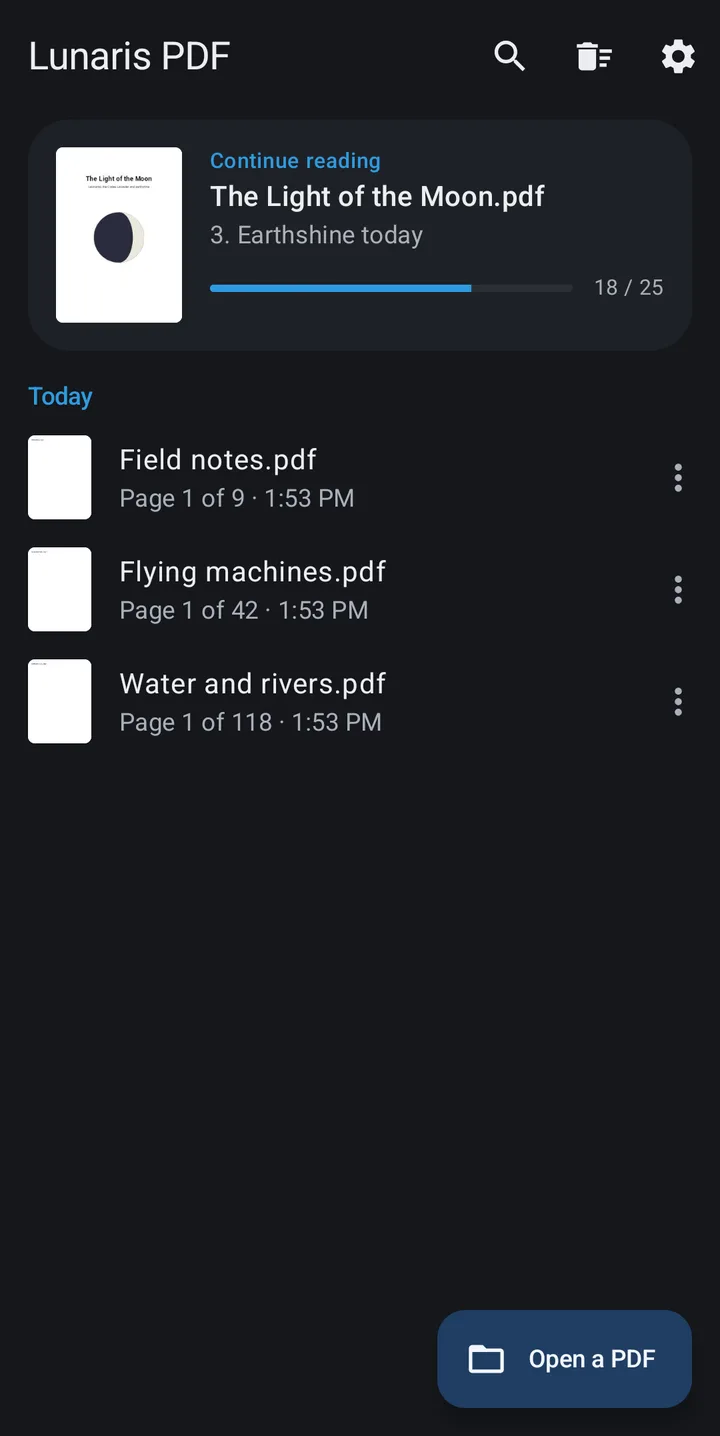
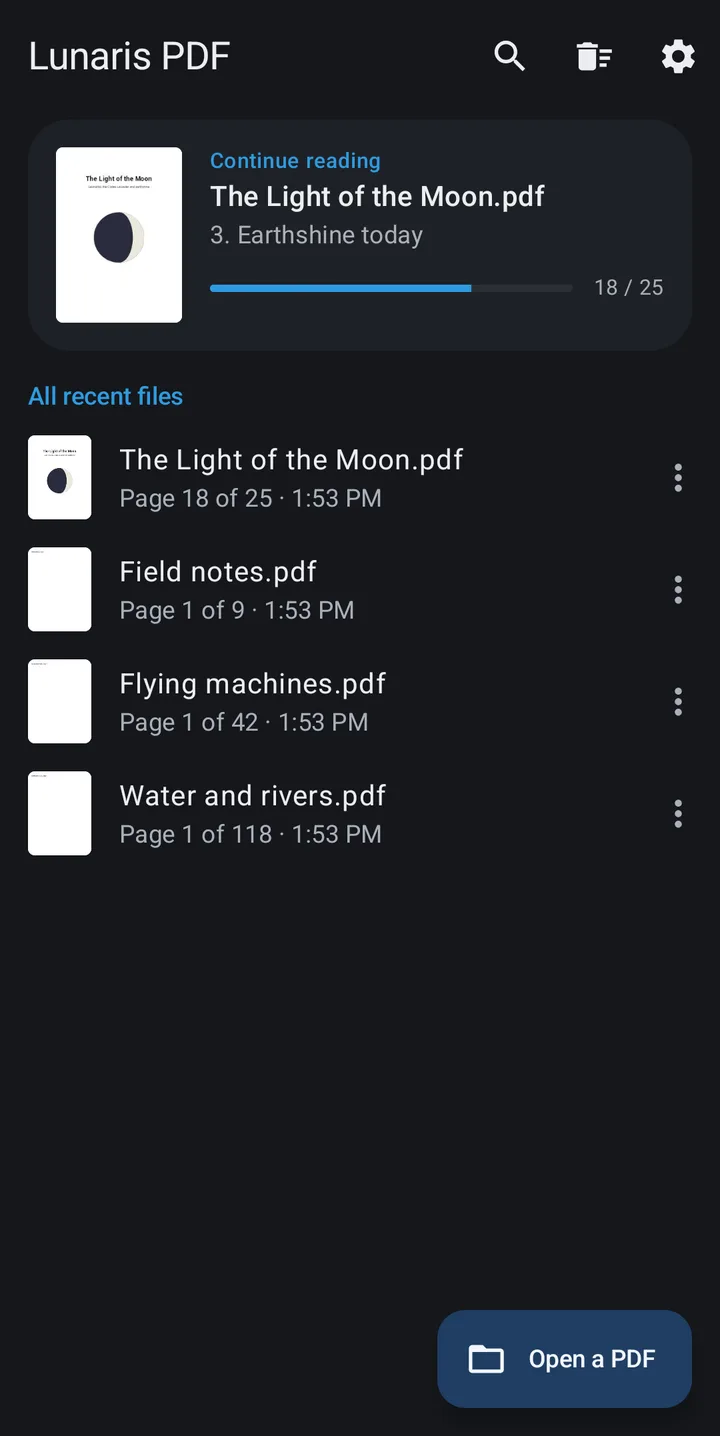
list all the recent files under the card in Lunaris PDF
The document in the card stays in the list too, where it has its menu. This
replaces the groups by date: each row still says when it was opened.

diff --git a/lunaris-pdf/app/src/test/kotlin/io/github/martindavinci/lunaris/pdf/recents/RecentsHomeTest.kt b/lunaris-pdf/app/src/test/kotlin/io/github/martindavinci/lunaris/pdf/recents/RecentsHomeTest.kt
@@ -18,45 +18,45 @@ class RecentsHomeTest {
     private fun entry(name: String, opened: Long, pinned: Boolean = false) =
         RecentEntry("content://a/$name", "$name.pdf", lastOpenedMillis = opened, pinned = pinned)
 
-    private fun home(entries: List<RecentEntry>, query: String? = null) = RecentsHome.of(entries, query, now, zone)
+    private fun home(entries: List<RecentEntry>, query: String? = null) = RecentsHome.of(entries, query)
 
     @Test fun nothing_givesAnEmptyHome() {
         val home = home(emptyList())
         assertThat(home.resume).isNull()
         assertThat(home.pinned).isEmpty()
-        assertThat(home.sections).isEmpty()
+        assertThat(home.all).isEmpty()
     }
 
-    @Test fun theNewest_isTheOneToResume_andNotInTheList() {
+    @Test fun theNewest_isTheOneToResume_andStaysInTheList() {
         val home = home(listOf(entry("a", millis(2026, 11, 4, 9)), entry("b", millis(2026, 11, 4, 8))))
         assertThat(home.resume?.name).isEqualTo("a.pdf")
-        assertThat(home.sections.flatMap { it.entries }.map { it.name }).containsExactly("b.pdf")
+        assertThat(home.all.map { it.name }).containsExactly("a.pdf", "b.pdf").inOrder()
     }
 
-    @Test fun pinned_goesAboveAndIsNotResumed() {
+    @Test fun aSingleFile_isBothResumedAndListed() {
+        val home = home(listOf(entry("a", millis(2026, 11, 4, 9))))
+        assertThat(home.resume?.name).isEqualTo("a.pdf")
+        assertThat(home.all.map { it.name }).containsExactly("a.pdf")
+    }
+
+    @Test fun pinned_goesAbove_andIsNotResumedOrListedTwice() {
         val home = home(listOf(entry("a", millis(2026, 11, 4, 9), pinned = true), entry("b", millis(2026, 11, 4, 8))))
         assertThat(home.pinned.map { it.name }).containsExactly("a.pdf")
         assertThat(home.resume?.name).isEqualTo("b.pdf")
+        assertThat(home.all.map { it.name }).containsExactly("b.pdf")
     }
 
-    @Test fun sections_followTheDate_andEmptyOnesAreLeftOut() {
+    @Test fun theList_isNewestFirst_whateverItsAge() {
         val home = home(
             listOf(
-                entry("resume", millis(2026, 11, 4, 9)),
-                entry("today", millis(2026, 11, 4, 0)),
-                entry("yesterday", millis(2026, 11, 3, 23)),
+                entry("today", millis(2026, 11, 4, 9)),
                 entry("weekAgo", millis(2026, 10, 29, 9)),
                 entry("old", millis(2026, 10, 1, 9)),
                 entry("unknown", 0),
             ),
         )
-        assertThat(home.sections.map { it.group }).containsExactly(
-            RecentsGroup.TODAY,
-            RecentsGroup.THIS_WEEK,
-            RecentsGroup.EARLIER,
-        ).inOrder()
-        assertThat(home.sections[1].entries.map { it.name }).containsExactly("yesterday.pdf", "weekAgo.pdf").inOrder()
-        assertThat(home.sections[2].entries.map { it.name }).containsExactly("old.pdf", "unknown.pdf").inOrder()
+        assertThat(home.all.map { it.name })
+            .containsExactly("today.pdf", "weekAgo.pdf", "old.pdf", "unknown.pdf").inOrder()
     }
 
     @Test fun searching_listsEverythingThatMatches_withoutGroups() {

diff --git a/lunaris-pdf/app/src/main/kotlin/io/github/martindavinci/lunaris/pdf/recents/RecentsHome.kt b/lunaris-pdf/app/src/main/kotlin/io/github/martindavinci/lunaris/pdf/recents/RecentsHome.kt
@@ -6,10 +6,6 @@ import java.time.LocalDate
 import java.time.ZoneId
 import java.time.temporal.ChronoUnit
 
-enum class RecentsGroup { TODAY, THIS_WEEK, EARLIER }
-
-data class RecentsSection(val group: RecentsGroup, val entries: List<RecentEntry>)
-
 /** When a document was opened, to be worded by the screen. */
 sealed interface WhenLabel {
     data class At(val millis: Long) : WhenLabel
@@ -20,29 +16,24 @@ sealed interface WhenLabel {
 
 /**
  * What the first screen shows. Usually a document is opened again, so the newest one gets a place of
- * its own in [resume]. With a search, [results] replaces all the rest.
+ * its own in [resume], and stays in [all] with the others. Pinned documents are listed apart, above.
+ * With a search, [results] replaces all the rest.
  */
 data class RecentsHome(
     val pinned: List<RecentEntry> = emptyList(),
     val resume: RecentEntry? = null,
-    val sections: List<RecentsSection> = emptyList(),
+    val all: List<RecentEntry> = emptyList(),
     val results: List<RecentEntry>? = null,
 ) {
     companion object {
         private const val DAYS_IN_A_WEEK = 7L
 
-        fun of(entries: List<RecentEntry>, query: String?, nowMillis: Long, zone: ZoneId): RecentsHome {
+        fun of(entries: List<RecentEntry>, query: String?): RecentsHome {
             if (query != null) {
                 return RecentsHome(results = entries.filter { it.name.contains(query.trim(), ignoreCase = true) })
             }
             val (pinned, others) = entries.partition { it.pinned }
-            val today = dateOf(nowMillis, zone)
-            val groups = others.drop(1).groupBy { groupOf(it.lastOpenedMillis, today, zone) }
-            return RecentsHome(
-                pinned = pinned,
-                resume = others.firstOrNull(),
-                sections = RecentsGroup.entries.mapNotNull { group -> groups[group]?.let { RecentsSection(group, it) } },
-            )
+            return RecentsHome(pinned = pinned, resume = others.firstOrNull(), all = others)
         }
 
         /** Null when the time is not known. */
@@ -55,15 +46,6 @@ data class RecentsHome(
                 days == 1L -> WhenLabel.Yesterday
                 days < DAYS_IN_A_WEEK -> WhenLabel.Weekday(date.dayOfWeek)
                 else -> WhenLabel.Day(date)
-            }
-        }
-
-        private fun groupOf(millis: Long, today: LocalDate, zone: ZoneId): RecentsGroup {
-            val days = ChronoUnit.DAYS.between(dateOf(millis, zone), today)
-            return when {
-                days <= 0 -> RecentsGroup.TODAY
-                days < DAYS_IN_A_WEEK -> RecentsGroup.THIS_WEEK
-                else -> RecentsGroup.EARLIER
             }
         }
 

diff --git a/lunaris-pdf/app/src/main/kotlin/io/github/martindavinci/lunaris/pdf/feature/recents/RecentsLists.kt b/lunaris-pdf/app/src/main/kotlin/io/github/martindavinci/lunaris/pdf/feature/recents/RecentsLists.kt
@@ -34,8 +34,9 @@ import androidx.compose.ui.text.style.TextAlign
 import androidx.compose.ui.unit.dp
 import io.github.martindavinci.lunaris.pdf.R
 import io.github.martindavinci.lunaris.pdf.recents.RecentEntry
-import io.github.martindavinci.lunaris.pdf.recents.RecentsGroup
 
+/** The document in the card is in the list too, which keys its rows by uri. */
+private const val RESUME_KEY = "resume"
 private val ListBottomPadding = 96.dp
 private val EmptyPadding = 32.dp
 private val EmptySpacing = 16.dp
@@ -101,8 +102,8 @@ internal fun RecentsList(
         }
     }
     val pinned = stringResource(R.string.recents_pinned)
-    val results = stringResource(if (state.query.isNullOrBlank()) R.string.recents_all else R.string.recents_results)
-    val titles = RecentsGroup.entries.associateWith { stringResource(it.titleRes) }
+    val all = stringResource(R.string.recents_all)
+    val results = if (state.query.isNullOrBlank()) all else stringResource(R.string.recents_results)
     val nothing = home.results?.isEmpty() == true
     if (nothing) {
         Text(
@@ -118,15 +119,8 @@ internal fun RecentsList(
         home.results?.let { section(results, it) }
         if (home.pinned.isNotEmpty()) section(pinned, home.pinned)
         home.resume?.let { entry ->
-            item(key = entry.uri) { ResumeCard(entry, thumbnail, onClick = { onAction(RecentsAction.OpenEntry(entry)) }) }
+            item(key = RESUME_KEY) { ResumeCard(entry, thumbnail, onClick = { onAction(RecentsAction.OpenEntry(entry)) }) }
         }
-        home.sections.forEach { section(titles.getValue(it.group), it.entries) }
+        if (home.all.isNotEmpty()) section(all, home.all)
     }
 }
-
-private val RecentsGroup.titleRes: Int
-    get() = when (this) {
-        RecentsGroup.TODAY -> R.string.recents_today
-        RecentsGroup.THIS_WEEK -> R.string.recents_this_week
-        RecentsGroup.EARLIER -> R.string.recents_earlier
-    }

diff --git a/lunaris-pdf/app/src/main/kotlin/io/github/martindavinci/lunaris/pdf/feature/recents/RecentsViewModel.kt b/lunaris-pdf/app/src/main/kotlin/io/github/martindavinci/lunaris/pdf/feature/recents/RecentsViewModel.kt
@@ -14,7 +14,6 @@ import io.github.martindavinci.lunaris.pdf.recents.RecentsHome
 import io.github.martindavinci.lunaris.pdf.recents.RecentsStore
 import io.github.martindavinci.lunaris.pdf.recents.ThumbnailStore
 import java.io.File
-import java.time.ZoneId
 import javax.inject.Inject
 import kotlinx.coroutines.Dispatchers
 import kotlinx.coroutines.flow.Flow
@@ -39,7 +38,6 @@ class RecentsViewModel internal constructor(
     private val restore: suspend (RecentEntry) -> Unit,
     private val documents: DocumentActions,
     private val thumbnail: suspend (String) -> ImageBitmap?,
-    private val now: () -> Long,
 ) : ViewModel() {
 
     @Inject
@@ -58,13 +56,12 @@ class RecentsViewModel internal constructor(
         store::restore,
         documents,
         { uri -> loadThumbnail(thumbnails.fileOf(uri)) },
-        System::currentTimeMillis,
     )
 
     private val flags = MutableStateFlow(RecentsUiState())
 
     val state: StateFlow<RecentsUiState> = combine(entries, flags) { list, current ->
-        current.copy(entries = list, home = RecentsHome.of(list, current.query, now(), ZoneId.systemDefault()))
+        current.copy(entries = list, home = RecentsHome.of(list, current.query))
     }
         .stateIn(viewModelScope, SharingStarted.WhileSubscribed(STOP_TIMEOUT_MILLIS), RecentsUiState())
 

diff --git a/lunaris-pdf/app/src/main/kotlin/io/github/martindavinci/lunaris/pdf/feature/recents/RecentsPreviews.kt b/lunaris-pdf/app/src/main/kotlin/io/github/martindavinci/lunaris/pdf/feature/recents/RecentsPreviews.kt
@@ -5,9 +5,7 @@ import androidx.compose.material3.Surface
 import androidx.compose.runtime.Composable
 import androidx.compose.ui.tooling.preview.Preview
 import io.github.martindavinci.lunaris.pdf.recents.RecentEntry
-import io.github.martindavinci.lunaris.pdf.recents.RecentsGroup
 import io.github.martindavinci.lunaris.pdf.recents.RecentsHome
-import io.github.martindavinci.lunaris.pdf.recents.RecentsSection
 import io.github.martindavinci.lunaris.pdf.settings.ThemeMode
 import io.github.martindavinci.lunaris.pdf.ui.theme.LunarisPdfTheme
 
@@ -23,7 +21,7 @@ private fun RecentsPreview() {
             RecentsScreen(
                 state = RecentsUiState(
                     entries = listOf(Moon, Notes, Rent),
-                    home = RecentsHome(resume = Moon, sections = listOf(RecentsSection(RecentsGroup.THIS_WEEK, listOf(Notes, Rent)))),
+                    home = RecentsHome(resume = Moon, all = listOf(Moon, Notes, Rent)),
                 ),
                 onAction = {},
                 onOpenSettings = {},

diff --git a/lunaris-pdf/app/src/test/kotlin/io/github/martindavinci/lunaris/pdf/feature/recents/RecentsViewModelTest.kt b/lunaris-pdf/app/src/test/kotlin/io/github/martindavinci/lunaris/pdf/feature/recents/RecentsViewModelTest.kt
@@ -43,7 +43,6 @@ class RecentsViewModelTest {
         restore = { entries.value = entries.value + it },
         documents = documents,
         thumbnail = { null },
-        now = { 1_000L },
         openRecent = {
             opened += it.uri
             readable

diff --git a/lunaris-pdf/README.md b/lunaris-pdf/README.md
@@ -22,7 +22,7 @@
 <p align="center">
   <img src="docs/screenshots/contents.webp" width="32%" alt="The contents of a document">
   <img src="docs/screenshots/read-aloud.webp" width="32%" alt="A document read aloud, with its controls">
-  <img src="docs/screenshots/recents.webp" width="32%" alt="The document being read on top, then the recent ones by date, each with its first page">
+  <img src="docs/screenshots/recents.webp" width="32%" alt="The document being read on top, then all the recent ones, each with its first page">
 </p>
 
 ## Download
@@ -46,7 +46,7 @@ since other Lunaris apps publish their releases here too.
 - PDFs with a password; the password is asked each time and never stored
 - Comes back to the page and zoom where you left a document
 - The first screen offers the document you were reading, with its chapter and how far you got
-- Recent documents grouped by date, with their first page; search them, pin up to three, or remove one
+- Below it all your recent documents, with their first page; search them, pin up to three, or remove one
 
 **Reading**
 - Continuous scrolling, pinch to zoom, double tap to fit the width
